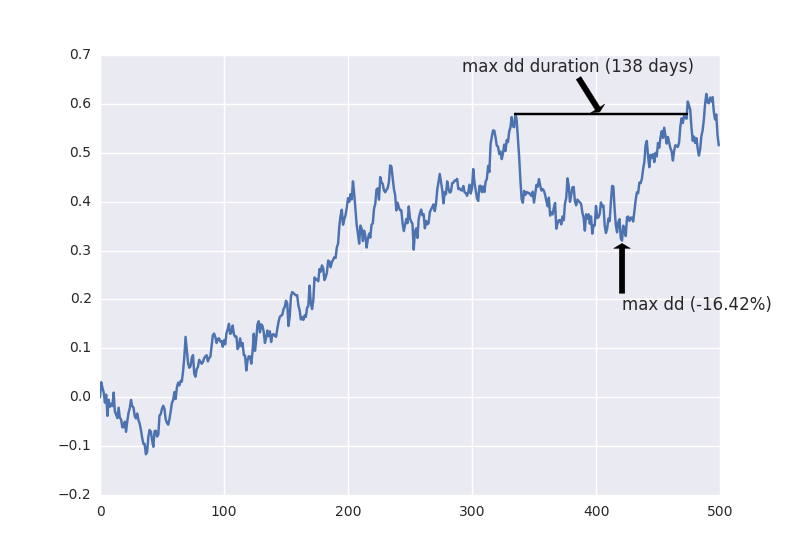
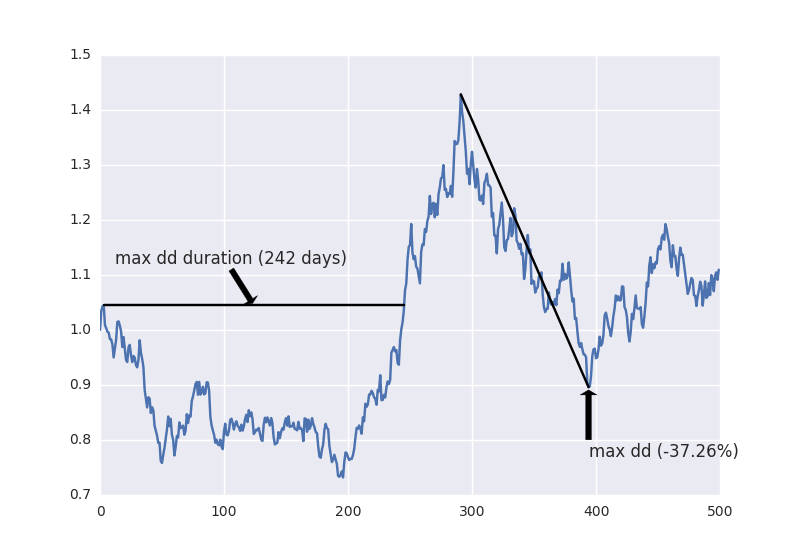
1. Updated drawdown chart lines. 2. Changed to use reguloar return calculation.

diff --git a/python/drawdown/dd_example.py b/python/drawdown/dd_example.py
@@ -5,19 +5,21 @@ import seaborn
 import utils
 
 
-np.random.seed(1)
+np.random.seed(3)
 
 
 def main():
 
     prices = utils.generate_gbm_prices(500, 70.0, 0.05, 0.3, 1.0)
-    returns = utils.calculate_log_returns(prices).cumsum()
+    returns = (utils.calculate_returns(prices) + 1.0).cumprod()
 
-    max_dd, max_count, max_dd_idx, max_duration_idx = \
-        utils.calculate_max_drawdown(returns)
+    max_dd, max_count, max_dd_idx, max_duration_idx, hwm_idx = \
+        utils.calculate_max_drawdown(returns - 1.0)
 
     plt.plot(returns)
 
+    plt.plot((hwm_idx, max_dd_idx),
+             (returns[hwm_idx], returns[max_dd_idx]), color='black')
     plt.annotate('max dd ({0:.2f}%)'.format(max_dd * 100.0),
                  xy=(max_dd_idx, returns[max_dd_idx]),
                  xycoords='data', xytext=(0, -50),

diff --git a/python/drawdown/utils.py b/python/drawdown/utils.py
@@ -22,9 +22,9 @@ def lag(data, empty_term=0.):
     return lagged
 
 
-def calculate_log_returns(prices):
+def calculate_returns(prices):
     lagged_pnl = lag(prices)
-    returns = np.log(prices / lagged_pnl)
+    returns = (prices - lagged_pnl) / lagged_pnl
 
     # All values prior to our position opening in pnl will have a
     # value of inf. This is due to division by 0.0
@@ -47,5 +47,8 @@ def calculate_max_drawdown(returns):
             dd_duration[i] = 0
         else:
             dd_duration[i] = dd_duration[i-1] + 1
+
+    min_dd_idx = drawdown.argmin()
     return min(drawdown), max(dd_duration), \
-           drawdown.argmin(), dd_duration.argmax()
+           min_dd_idx, dd_duration.argmax(), \
+           np.where(returns == highwatermark[min_dd_idx-1])[-1]
